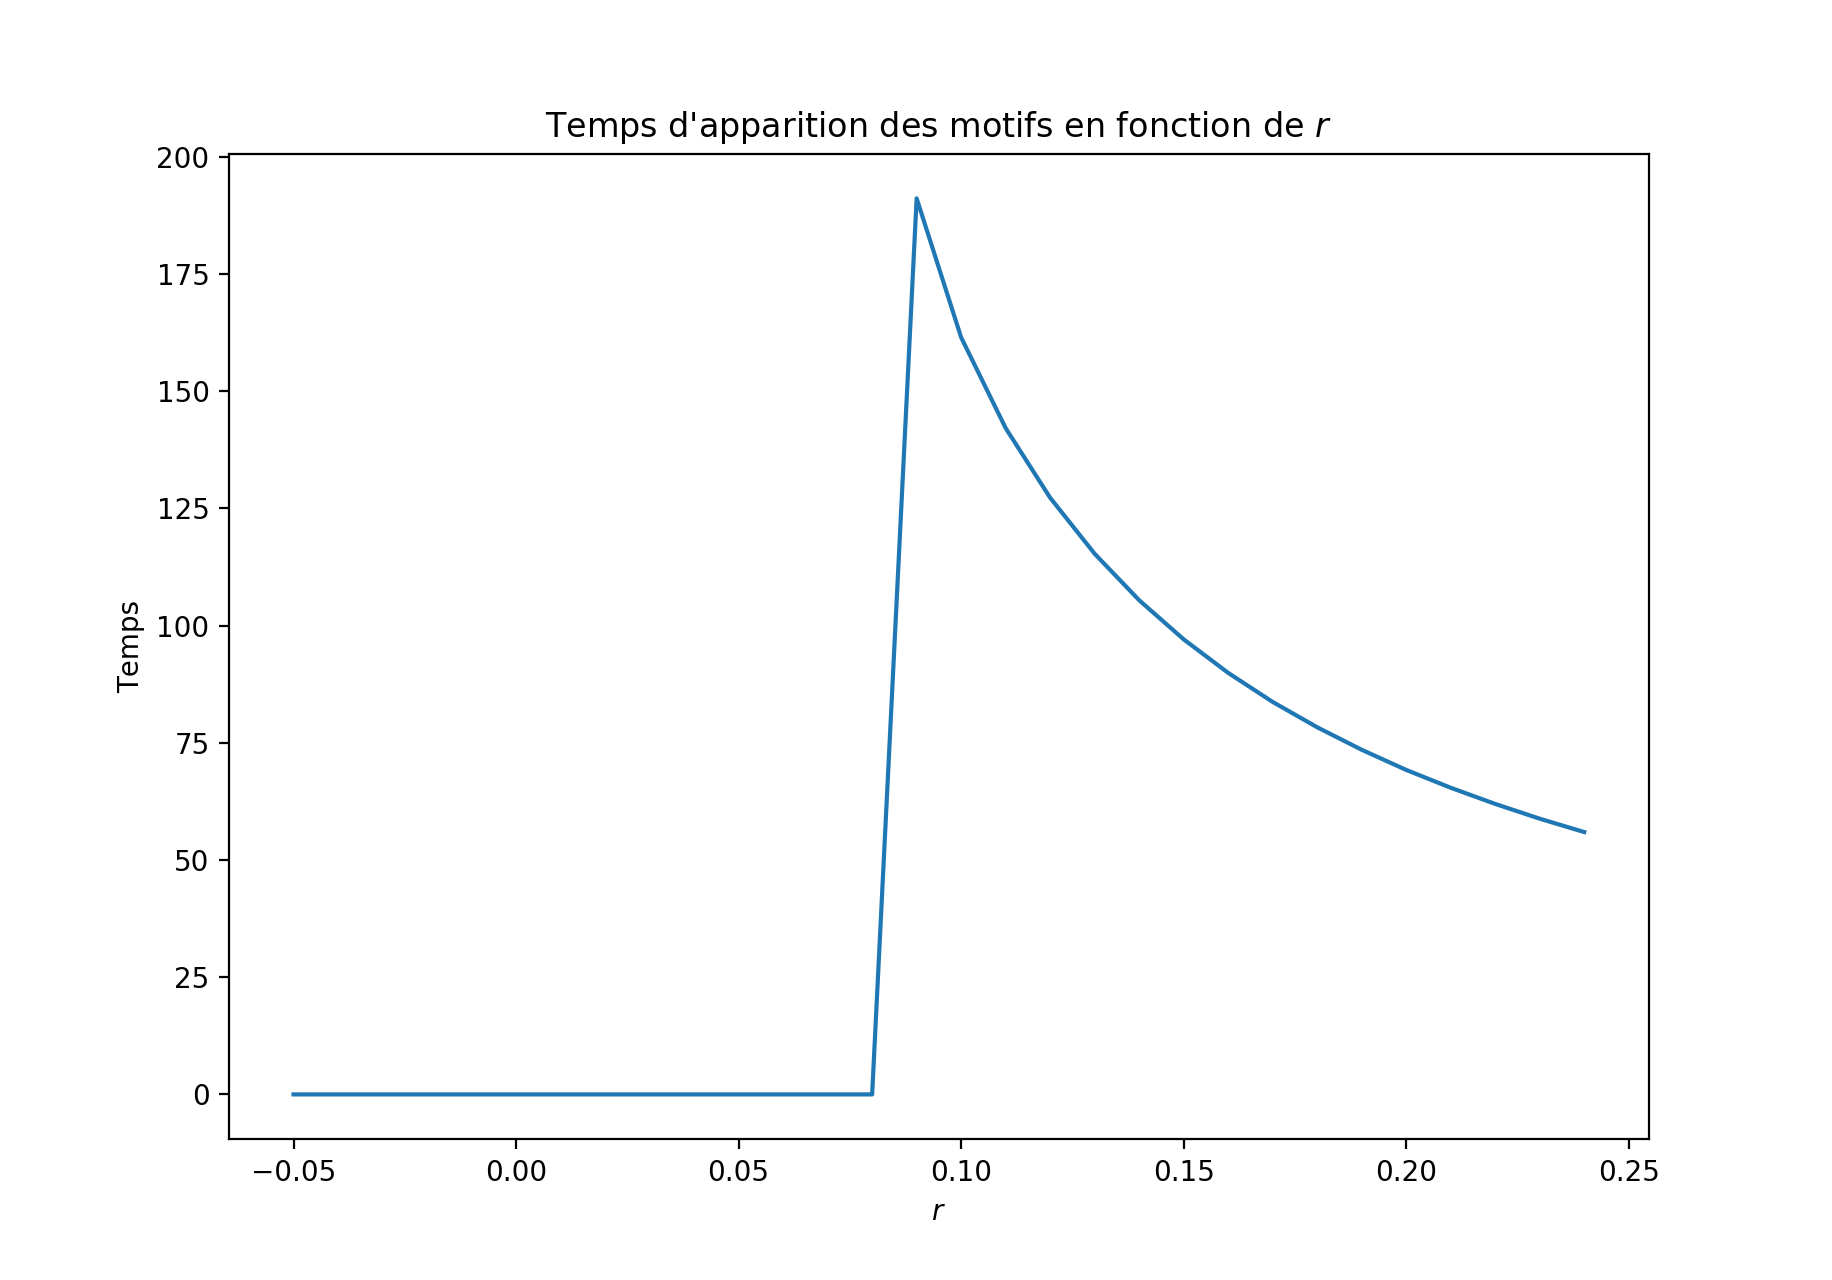
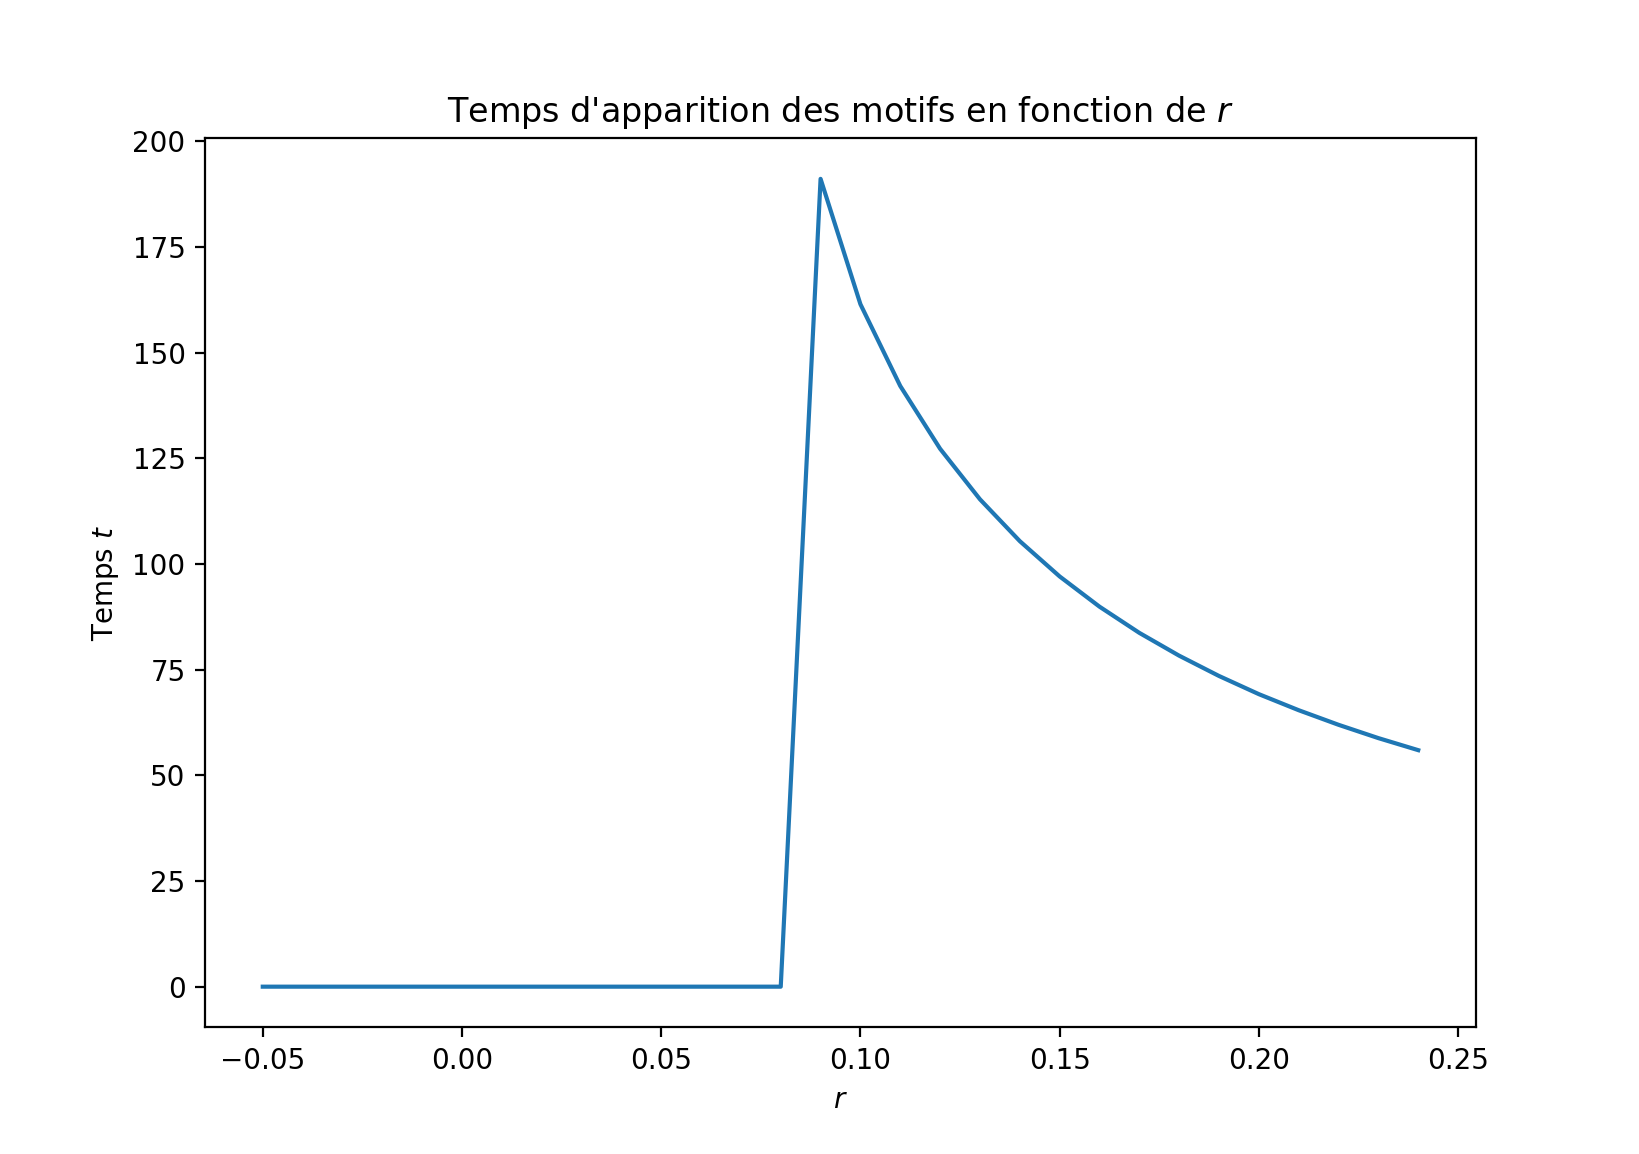
Ajout de figures pour k_max

diff --git a/pattern.py b/pattern.py
@@ -190,6 +190,7 @@ def tl_mesure(f0,r,L):
             continue
 
         A_c = (1/L)*simps(abs(u), x_range)
+        k_max = 0
         if A_c > seuil:
             if Départ :
                 continue
@@ -198,13 +199,14 @@ def tl_mesure(f0,r,L):
                 # Longueur d'onde
                 ua = np.abs(uk)
                 k_max = np.min(np.abs(np.where(ua == np.max(ua)))) - N/2
+                #l_max = 2*pi/k_max
                 break
 
         else :
             if Départ :
                 Départ = False
 
-    return t_pattern, 2*pi/k_max
+    return t_pattern, k_max
 
 
 def rL_effect(u0, r_range, L_range):
@@ -257,15 +259,15 @@ def r_effect(u0, r_range):
     
     plt.plot(r_range, wavelength)
     plt.xlabel("$r$")
-    plt.ylabel("Longueur d'onde $\lambda$")
-    plt.title("Longueur d'onde principale des motifs en fonction de $r$")
+    plt.ylabel("Nombre d'onde $k$")
+    plt.title("Nombre d'onde principal des motifs en fonction de $r$")
     plt.show()
     plt.clf()
 
-    plt.plot(r_range, wavelength, label = "$\lambda$")
-    plt.plot(r_range, time/80, label = "$t/80$")
+    plt.plot(r_range, wavelength, label = "$k$")
+    plt.plot(r_range, time/4, label = "$t/4$")
     plt.xlabel("$r$")
-    plt.title("Longueur d'onde principale des motifs et temps d'apparition \nen fonction de $r$")
+    plt.title("Nombre d'onde principal des motifs et temps d'apparition \nen fonction de $r$")
     plt.legend()
     plt.show()
     plt.clf()
@@ -290,16 +292,15 @@ def L_effect(u0, L_range):
     
     plt.plot(L_range, wavelength)
     plt.xlabel("$L$")
-    plt.ylabel("Longueur d'onde")
-    plt.title("Longueur d'onde principale des motifs en fonction de $L$")
+    plt.ylabel("Nombre d'onde $k$")
+    plt.title("Nombre d'onde principal des motifs en fonction de $r$")
     plt.show()
     plt.clf()
 
-    plt.plot(L_range, wavelength, label = "$\lambda$")
-    plt.plot(L_range, time/80, label = "$t/80$")
+    plt.plot(L_range, wavelength, label = "$k$")
+    plt.plot(L_range, time/4, label = "$t/4$")
     plt.xlabel("$L$")
-    plt.ylabel("Longueur d'onde")
-    plt.title("Longueur d'onde principale des motifs et temps d'apparition \nen fonction de $L$")
+    plt.title("Nombre d'onde principal des motifs et temps d'apparition \nen fonction de $L$")
     plt.legend()
     plt.show()
     plt.clf()
